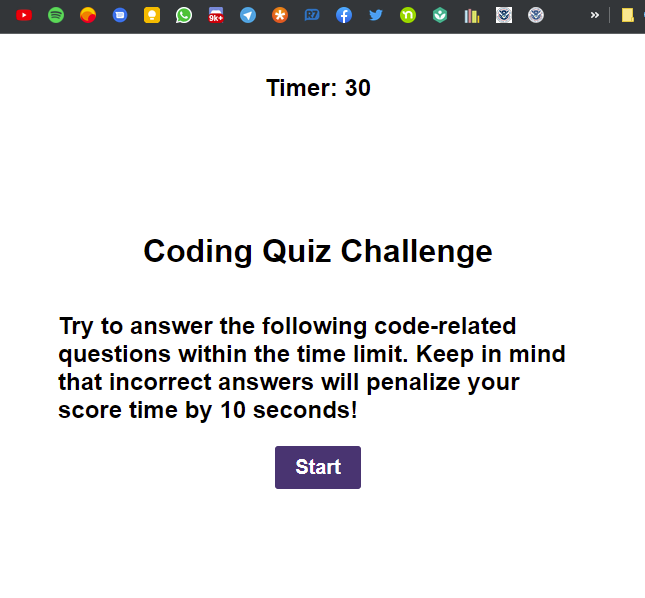
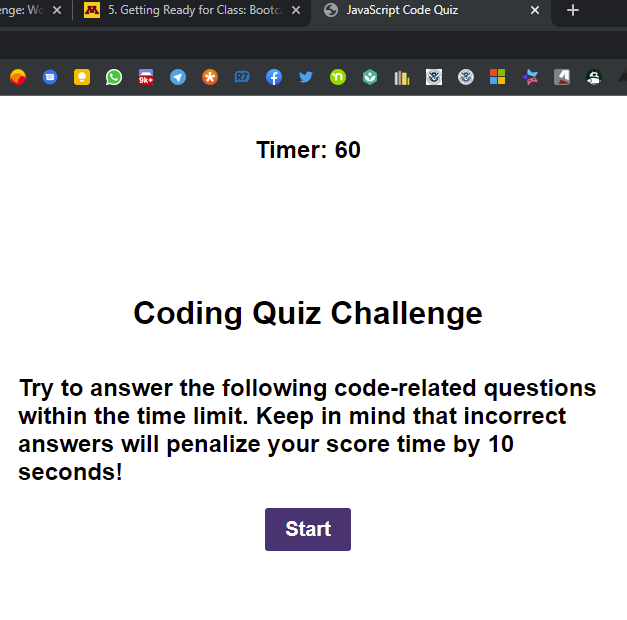
fix stop timer, fix no more question, add more question, hope final version

diff --git a/assets/js/code-quiz-b.js b/assets/js/code-quiz-b.js
@@ -106,8 +106,8 @@ const questionsBank = [
     question: "Commonly used data types do not include:",
     answers: [
       { text: "strings", correct: false },
-      { text: "booleans", correct: true },
-      { text: "alerts", correct: false },
+      { text: "booleans", correct: false },
+      { text: "alerts", correct: true },
       { text: "numbers", correct: false },
     ],
   },
@@ -116,8 +116,8 @@ const questionsBank = [
     answers: [
       { text: "numbers and strings", correct: false },
       { text: "other arrays", correct: false },
-      { text: "booleans", correct: true },
-      { text: "all of the above", correct: false },
+      { text: "booleans", correct: false },
+      { text: "all of the above", correct: true },
     ],
   },
   {
@@ -172,10 +172,6 @@ function startGame() {
 // function for the next question
 function setNextQuestion() {
   showQuestion(randomQuestion[currentQuestionIndex]);
-
-  if (currentQuestionIndex >= randomQuestion.length) {
-    endGame();
-  }
 }
 
 // score system
@@ -265,12 +261,19 @@ function clearStatusClass(element) {
 }
 
 //timer function
-let time = 30;
+let time = 60;
 let timerEl = document.querySelector("#timer");
 function timer() {
   let timeInterval = setInterval(function () {
     timerEl.innerHTML = "Timer: " + time + " seconds";
     time--;
+
+    // call endGame when no more questions
+    if (currentQuestionIndex >= randomQuestion.length) {
+      // stop time
+      clearInterval(timeInterval);
+      endGame();
+    }
 
     if (time <= 0 || time === 0) {
       timerEl.innerHTML = "Game Over!";
@@ -283,6 +286,9 @@ function timer() {
 
 // endGame function
 function endGame() {
+  // show the form
+  formEl.classList.remove("hide");
+
   // replace div question container with text
   questionElement.innerHTML = "<h1>Done!</h1>";
 
@@ -353,6 +359,7 @@ let leaderboard = function (event) {
   document.querySelector("#initialsInput").remove();
 };
 
+// sadly no time to add an external leaderboard page
 // let playerScore = document.querySelectorAll(".player-score");
 
 // // leaderboard button shows list with scores

diff --git a/index.html b/index.html
@@ -10,7 +10,7 @@
   
   <header class="score-time">
     <button id="leaderboard" class="btn hide">Leaderboard</button>
-    <h2 id="timer">Timer: 30</h2>
+    <h2 id="timer">Timer: 60</h2>
   </header>
 
   <body>

diff --git a/README.md b/README.md
@@ -5,9 +5,9 @@ Targeted goals:
 - Create an application: timed quiz that stores scores using JavaScript
 - Click the Start Button will trigger a timer and first question will presented
 - After answer the question, the next question should show up
-- If correct add 1 point
-- If wrong subtract 10 from timer
-- Game Over: save initials and score
+- If correct add 1 point, add green color to the correct answer
+- If wrong subtract 10 from timer, add red color to the wrong answer
+- Game Over: timer stop and user can save initials and score
 
 ## Application deployed at URL:
 
@@ -20,10 +20,13 @@ https://github.com/kakudiego/C-4-Web-APIs_Code-Quiz
 ### ScreenShots:
 
 #### First screen
+
 <img src="./assets/images/quiz-1.png">
 
 #### First question and timer
+
 <img src="./assets/images/quiz-2.png">
 
 #### Initial and Score
+
 <img src="./assets/images/quiz-3.png">
